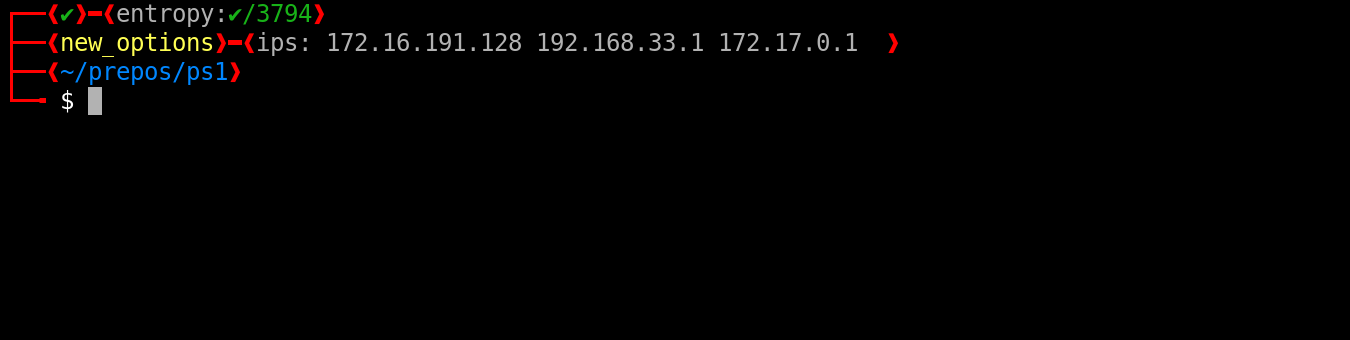
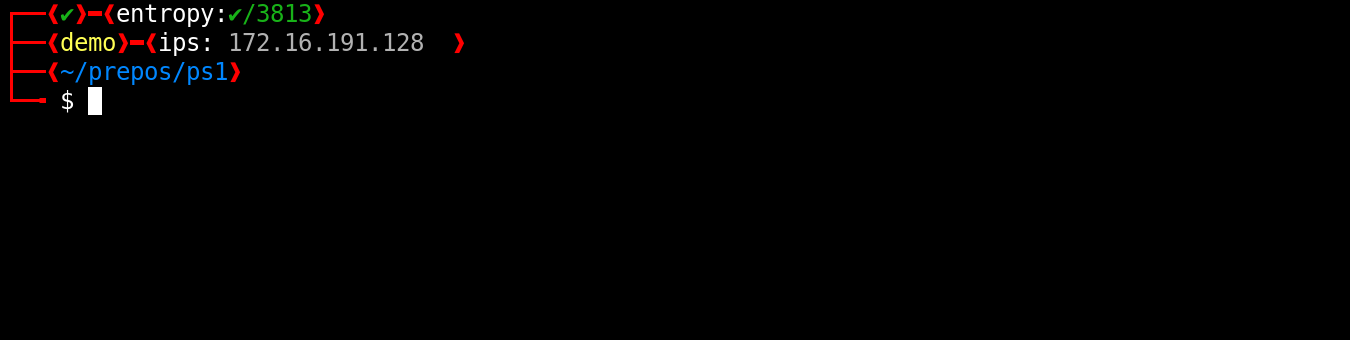
Added new setting --set_title_color
Updated  demo src/ps1api/examples/dark/stev0_work.sh

Changed region(s): [[0.0311, 0.0, 0.6844, 0.1765], [0.1867, 0.0, 0.2489, 0.0588], [0.0622, 0.2647, 0.0933, 0.3529]]

diff --git a/docs/nameIndex.html b/docs/nameIndex.html
@@ -144,7 +144,7 @@
         <h2>S</h2>
         <p class="letterlinks"><a href="#A">A</a> - <a href="#B">B</a> - <a href="#C">C</a> - <a href="#D">D</a> - <a href="#F">F</a> - <a href="#G">G</a> - <a href="#H">H</a> - <a href="#I">I</a> - <a href="#J">J</a> - <a href="#N">N</a> - <a href="#O">O</a> - <a href="#P">P</a> - S - <a href="#T">T</a> - <a href="#U">U</a> - <a href="#W">W</a> - <a href="#_">_</a></p>
         <ul id="summaryTree">
-          <li>section_color - <code data-type="Instance Variable"><a href="ps1api.Base.html#section_color">ps1api.Base.section_color</a></code></li><li>section_prefix - <code data-type="Instance Variable"><a href="ps1api.Base.html#section_prefix">ps1api.Base.section_prefix</a></code></li><li>section_suffix - <code data-type="Instance Variable"><a href="ps1api.Base.html#section_suffix">ps1api.Base.section_suffix</a></code></li><li>sections - <code data-type="Instance Variable"><a href="ps1api.Base.html#sections">ps1api.Base.sections</a></code></li><li>set_ends - <code data-type="Method"><a href="ps1api.Base.html#set_ends">ps1api.Base.set_ends</a></code></li><li>set_fancy_lines - <code data-type="Method"><a href="ps1api.Base.html#set_fancy_lines">ps1api.Base.set_fancy_lines</a></code></li><li>set_no_color - <code data-type="Method"><a href="ps1api.Base.html#set_no_color">ps1api.Base.set_no_color</a></code></li><li>set_prompt_color - <code data-type="Method"><a href="ps1api.Base.html#set_prompt_color">ps1api.Base.set_prompt_color</a></code></li><li>set_section_color - <code data-type="Method"><a href="ps1api.Base.html#set_section_color">ps1api.Base.set_section_color</a></code></li><li>set_section_delim - <code data-type="Method"><a href="ps1api.Base.html#set_section_delim">ps1api.Base.set_section_delim</a></code></li><li>SHELL_NAME - <code data-type="Class Variable"><a href="ps1api.Base.html#SHELL_NAME">ps1api.Base.SHELL_NAME</a></code></li>
+          <li>section_color - <code data-type="Instance Variable"><a href="ps1api.Base.html#section_color">ps1api.Base.section_color</a></code></li><li>section_prefix - <code data-type="Instance Variable"><a href="ps1api.Base.html#section_prefix">ps1api.Base.section_prefix</a></code></li><li>section_suffix - <code data-type="Instance Variable"><a href="ps1api.Base.html#section_suffix">ps1api.Base.section_suffix</a></code></li><li>sections - <code data-type="Instance Variable"><a href="ps1api.Base.html#sections">ps1api.Base.sections</a></code></li><li>set_ends - <code data-type="Method"><a href="ps1api.Base.html#set_ends">ps1api.Base.set_ends</a></code></li><li>set_fancy_lines - <code data-type="Method"><a href="ps1api.Base.html#set_fancy_lines">ps1api.Base.set_fancy_lines</a></code></li><li>set_no_color - <code data-type="Method"><a href="ps1api.Base.html#set_no_color">ps1api.Base.set_no_color</a></code></li><li>set_prompt_color - <code data-type="Method"><a href="ps1api.Base.html#set_prompt_color">ps1api.Base.set_prompt_color</a></code></li><li>set_section_color - <code data-type="Method"><a href="ps1api.Base.html#set_section_color">ps1api.Base.set_section_color</a></code></li><li>set_section_delim - <code data-type="Method"><a href="ps1api.Base.html#set_section_delim">ps1api.Base.set_section_delim</a></code></li><li>set_title_color - <code data-type="Method"><a href="ps1api.Base.html#set_title_color">ps1api.Base.set_title_color</a></code></li><li>SHELL_NAME - <code data-type="Class Variable"><a href="ps1api.Base.html#SHELL_NAME">ps1api.Base.SHELL_NAME</a></code></li>
         </ul>
       
         <a name="T">
@@ -153,7 +153,7 @@
         <h2>T</h2>
         <p class="letterlinks"><a href="#A">A</a> - <a href="#B">B</a> - <a href="#C">C</a> - <a href="#D">D</a> - <a href="#F">F</a> - <a href="#G">G</a> - <a href="#H">H</a> - <a href="#I">I</a> - <a href="#J">J</a> - <a href="#N">N</a> - <a href="#O">O</a> - <a href="#P">P</a> - <a href="#S">S</a> - T - <a href="#U">U</a> - <a href="#W">W</a> - <a href="#_">_</a></p>
         <ul id="summaryTree">
-          <li>TERM_BASE - <code data-type="Class Variable"><a href="ps1api.Base.html#TERM_BASE">ps1api.Base.TERM_BASE</a></code></li><li>TIME_12HR_AM_PM - <code data-type="Class Variable"><a href="ps1api.Base.html#TIME_12HR_AM_PM">ps1api.Base.TIME_12HR_AM_PM</a></code></li><li>TIME_12HR_W_SECOND - <code data-type="Class Variable"><a href="ps1api.Base.html#TIME_12HR_W_SECOND">ps1api.Base.TIME_12HR_W_SECOND</a></code></li><li>TIME_24 - <code data-type="Class Variable"><a href="ps1api.Base.html#TIME_24">ps1api.Base.TIME_24</a></code></li>
+          <li>TERM_BASE - <code data-type="Class Variable"><a href="ps1api.Base.html#TERM_BASE">ps1api.Base.TERM_BASE</a></code></li><li>TIME_12HR_AM_PM - <code data-type="Class Variable"><a href="ps1api.Base.html#TIME_12HR_AM_PM">ps1api.Base.TIME_12HR_AM_PM</a></code></li><li>TIME_12HR_W_SECOND - <code data-type="Class Variable"><a href="ps1api.Base.html#TIME_12HR_W_SECOND">ps1api.Base.TIME_12HR_W_SECOND</a></code></li><li>TIME_24 - <code data-type="Class Variable"><a href="ps1api.Base.html#TIME_24">ps1api.Base.TIME_24</a></code></li><li>title_color - <code data-type="Instance Variable"><a href="ps1api.Base.html#title_color">ps1api.Base.title_color</a></code></li>
         </ul>
       
         <a name="U">

diff --git a/docs/ps1api.Base.html b/docs/ps1api.Base.html
@@ -138,6 +138,11 @@
   </tr><tr class="instancevariable">
     
     <td>Instance Variable</td>
+    <td><code><a href="#title_color">title_color</a></code></td>
+    <td><span>Title color.</span></td>
+  </tr><tr class="instancevariable">
+    
+    <td>Instance Variable</td>
     <td><code><a href="#fancy_lines">fancy_lines</a></code></td>
     <td><span>Turn on Fancy lines.</span></td>
   </tr><tr class="instancevariable">
@@ -145,6 +150,11 @@
     <td>Instance Variable</td>
     <td><code><a href="#sections">sections</a></code></td>
     <td><span>Sections list.</span></td>
+  </tr><tr class="method">
+    
+    <td>Method</td>
+    <td><code><a href="#set_title_color">set_title_color</a></code></td>
+    <td><span>Set title color.</span></td>
   </tr><tr class="method">
     
     <td>Method</td>
@@ -675,6 +685,24 @@
   </div>
 </div><div class="baseinstancevariable">
   
+  <a name="ps1api.Base.title_color">
+    
+  </a>
+  <a name="title_color">
+    
+  </a>
+  <div class="functionHeader">
+    
+    <span class="py-defname">title_color</span> =
+    
+  </div>
+  <div class="functionBody">
+    
+    
+    <div><p>Title color.</p></div>
+  </div>
+</div><div class="baseinstancevariable">
+  
   <a name="ps1api.Base.fancy_lines">
     
   </a>
@@ -726,6 +754,24 @@
     
     
     <div><p>Strip color from output.</p></div>
+  </div>
+</div><div class="basemethod">
+  
+  <a name="ps1api.Base.set_title_color">
+    
+  </a>
+  <a name="set_title_color">
+    
+  </a>
+  <div class="functionHeader">
+    
+    <span class="py-keyword">def</span> <span class="py-defname">set_title_color</span>(self, value):
+    
+  </div>
+  <div class="docstring functionBody">
+    
+    
+    <div><p>Set title color.</p><table class="fieldTable"><tr class="fieldStart"><td class="fieldName">Parameters</td><td class="fieldArg">value</td><td><span class="undocumented">Undocumented</span> (type: <code>str</code>)</td></tr></table></div>
   </div>
 </div><div class="basemethod">
   

diff --git a/docs/ps1api.Parrot.html b/docs/ps1api.Parrot.html
@@ -151,6 +151,11 @@
   </tr><tr class="baseinstancevariable">
     
     <td>Instance Variable</td>
+    <td><code><a href="ps1api.Base.html#title_color">title_color</a></code></td>
+    <td><span>Title color.</span></td>
+  </tr><tr class="baseinstancevariable">
+    
+    <td>Instance Variable</td>
     <td><code><a href="ps1api.Base.html#fancy_lines">fancy_lines</a></code></td>
     <td><span>Turn on Fancy lines.</span></td>
   </tr><tr class="baseinstancevariable">
@@ -158,6 +163,11 @@
     <td>Instance Variable</td>
     <td><code><a href="ps1api.Base.html#sections">sections</a></code></td>
     <td><span>Sections list.</span></td>
+  </tr><tr class="basemethod">
+    
+    <td>Method</td>
+    <td><code><a href="ps1api.Base.html#set_title_color">set_title_color</a></code></td>
+    <td><span>Set title color.</span></td>
   </tr><tr class="basemethod">
     
     <td>Method</td>

diff --git a/docs/ps1api.ParrotGit.html b/docs/ps1api.ParrotGit.html
@@ -151,6 +151,11 @@
   </tr><tr class="baseinstancevariable">
     
     <td>Instance Variable</td>
+    <td><code><a href="ps1api.Base.html#title_color">title_color</a></code></td>
+    <td><span>Title color.</span></td>
+  </tr><tr class="baseinstancevariable">
+    
+    <td>Instance Variable</td>
     <td><code><a href="ps1api.Base.html#fancy_lines">fancy_lines</a></code></td>
     <td><span>Turn on Fancy lines.</span></td>
   </tr><tr class="baseinstancevariable">
@@ -158,6 +163,11 @@
     <td>Instance Variable</td>
     <td><code><a href="ps1api.Base.html#sections">sections</a></code></td>
     <td><span>Sections list.</span></td>
+  </tr><tr class="basemethod">
+    
+    <td>Method</td>
+    <td><code><a href="ps1api.Base.html#set_title_color">set_title_color</a></code></td>
+    <td><span>Set title color.</span></td>
   </tr><tr class="basemethod">
     
     <td>Method</td>

diff --git a/src/ps1api/__init__.py b/src/ps1api/__init__.py
@@ -82,9 +82,15 @@ class Base(object):
         self.set_ends()
         self.set_prompt_color()
         self.set_section_delim()
+
+        self.title_color = None
+        """Title color."""
+
         self.fancy_lines = False
         """Turn on Fancy lines."""
+
         self.set_no_color(False)
+
         self.sections = []
         """Sections list."""
 
@@ -94,6 +100,10 @@ class Base(object):
         """Strip color from output."""
         ansi_escape = re.compile(r"\x1B(?:[@-Z\\-_]|\[[0-?]*[ -/]*[@-~])")
         return ansi_escape.sub("", value)
+
+    def set_title_color(self, value: str):
+        """Set title color."""
+        self.title_color = value
 
     def set_no_color(self, value=True):
         """Set terminal to no color."""
@@ -477,12 +487,16 @@ class Base(object):
                 mod_lines.append(val)
             elif not color:
                 if title:
+                    if self.title_color:
+                        title = self.color(self.title_color, title)
                     ival = f"{title}:{val}"
                 else:
                     ival = val
                 mod_lines.append(self._sammy(ival))
             else:
                 if title:
+                    if self.title_color:
+                        title = self.color(self.title_color, title)
                     ival = f"{title}:{self.color(color, val)}"
                 else:
                     ival = self.color(color, val)

diff --git a/README.md b/README.md
@@ -52,7 +52,7 @@ usage: ps1 custom [-h] [--add_bash_ver color title] [--add_bash_ver_release colo
                         [--add_user color title] [--add_user_host user_color at_sym_color host_color]
                         [--add_working_dir_basename color title] [--add_working_directory color title] [--set_ends start end]
                         [--set_fancy_lines] [--set_no_color value] [--set_prompt_color color] [--set_section_color color]
-                        [--set_section_delim delim]
+                        [--set_section_delim delim] [--set_title_color value]
 
 optional arguments:
   -h, --help            show this help message and exit
@@ -142,6 +142,8 @@ optional arguments:
                         ::
                             i.e. [section1]-[section2]
                                            ^ separator
+  --set_title_color value
+                        Set title color.
 
 ```
 
@@ -247,7 +249,7 @@ export PS1='\[\e[38;5;15m\]\[\e[1m\]\000\342\224\214\000\342\224\200\000\342\224
 
 ### [stev0_work.sh](https://github.com/shollingsworth/ps1/blob/main/src/ps1api/examples/dark/stev0_work.sh)
 ```
-export PS1='\[\e[38;5;196m\]\[\e[1m\]\133\[\e[0m\]$(b_err_code=$?; [[ $b_err_code != 0 ]] && echo "\[\e[38;5;196m\]\000\342\234\230\[\e[0m\]/${b_err_code}" || echo "\[\e[38;5;2m\]\000\342\234\224\[\e[0m\]")\[\e[38;5;196m\]\[\e[1m\]\135\[\e[0m\]\[\e[38;5;196m\]\[\e[1m\]\[\e[0m\]\[\e[38;5;196m\]\[\e[1m\]\133\[\e[0m\]entropy:$(_shentropy)\[\e[38;5;196m\]\[\e[1m\]\135\[\e[0m\]\[\e[38;5;196m\]\[\e[1m\]\[\e[0m\]\[\e[38;5;196m\]\[\e[1m\]\133\[\e[0m\]\[\e[38;5;2m\]\d \t\[\e[0m\]\[\e[38;5;196m\]\[\e[1m\]\135\[\e[0m\]\[\e[38;5;196m\]\[\e[1m\]\[\e[0m\]\[\e[38;5;196m\]\[\e[1m\]\133\[\e[0m\]jobs:\[\e[38;5;196m\]\j\[\e[0m\]\[\e[38;5;196m\]\[\e[1m\]\135\[\e[0m\]\[\e[38;5;196m\]\[\e[1m\]\[\e[0m\]\[\e[38;5;196m\]\[\e[1m\]\133\[\e[0m\]cmd#:\[\e[38;5;196m\]\#\[\e[0m\]\[\e[38;5;196m\]\[\e[1m\]\135\[\e[0m\]\n\[\e[38;5;196m\]\[\e[1m\]\133\[\e[0m\]\[\e[38;5;33m\]\w\[\e[0m\]\[\e[38;5;196m\]\[\e[1m\]\135\[\e[0m\]\[\e[38;5;196m\]\[\e[1m\]\[\e[0m\]\[\e[38;5;196m\]\[\e[1m\]\133\[\e[0m\]\[\e[38;5;11m\]$(br=$(git branch 2>/dev/null| grep '"'"'^\*'"'"' | awk '"'"'{print $NF}'"'"'); [[ "${br}" ]] && echo "${br}" || echo "-")\[\e[0m\]\[\e[38;5;196m\]\[\e[1m\]\135\[\e[0m\]\n\[\e[38;5;15m\]\$ \[\e[0m\]'
+export PS1='\[\e[38;5;196m\]\[\e[1m\]\133\[\e[0m\]$(b_err_code=$?; [[ $b_err_code != 0 ]] && echo "\[\e[38;5;196m\]\000\342\234\230\[\e[0m\]/${b_err_code}" || echo "\[\e[38;5;2m\]\000\342\234\224\[\e[0m\]")\[\e[38;5;196m\]\[\e[1m\]\135\[\e[0m\]\[\e[38;5;196m\]\[\e[1m\]\[\e[0m\]\[\e[38;5;196m\]\[\e[1m\]\133\[\e[0m\]\[\e[38;5;244m\]entropy\[\e[0m\]:$(_shentropy)\[\e[38;5;196m\]\[\e[1m\]\135\[\e[0m\]\[\e[38;5;196m\]\[\e[1m\]\[\e[0m\]\[\e[38;5;196m\]\[\e[1m\]\133\[\e[0m\]\[\e[38;5;2m\]\d \t\[\e[0m\]\[\e[38;5;196m\]\[\e[1m\]\135\[\e[0m\]\[\e[38;5;196m\]\[\e[1m\]\[\e[0m\]\[\e[38;5;196m\]\[\e[1m\]\133\[\e[0m\]\[\e[38;5;244m\]jobs\[\e[0m\]:\[\e[38;5;196m\]\j\[\e[0m\]\[\e[38;5;196m\]\[\e[1m\]\135\[\e[0m\]\[\e[38;5;196m\]\[\e[1m\]\[\e[0m\]\[\e[38;5;196m\]\[\e[1m\]\133\[\e[0m\]\[\e[38;5;244m\]cmd#\[\e[0m\]:\[\e[38;5;196m\]\#\[\e[0m\]\[\e[38;5;196m\]\[\e[1m\]\135\[\e[0m\]\n\[\e[38;5;196m\]\[\e[1m\]\133\[\e[0m\]\[\e[38;5;33m\]\w\[\e[0m\]\[\e[38;5;196m\]\[\e[1m\]\135\[\e[0m\]\[\e[38;5;196m\]\[\e[1m\]\[\e[0m\]\[\e[38;5;196m\]\[\e[1m\]\133\[\e[0m\]\[\e[38;5;11m\]$(br=$(git branch 2>/dev/null| grep '"'"'^\*'"'"' | awk '"'"'{print $NF}'"'"'); [[ "${br}" ]] && echo "${br}" || echo "-")\[\e[0m\]\[\e[38;5;196m\]\[\e[1m\]\135\[\e[0m\]\n\[\e[38;5;15m\]\$ \[\e[0m\]'
 ```
 ![stev0_work.sh](https://raw.githubusercontent.com/shollingsworth/ps1/main/media/dark/stev0_work.sh.png)
 

diff --git a/CHANGELOG.md b/CHANGELOG.md
@@ -1,6 +1,14 @@
+# v0.0.11
+#### Added new setting --set_title_color
+> 2021-09-14 03:53 UTC [HEAD](https://github.com/shollingsworth/ps1/commit/HEAD)
+
+```
+Updated  demo src/ps1api/examples/dark/stev0_work.sh
+```
+---
 # v0.0.10
 #### Stripped left hand side on newlines
-> 2021-09-14 03:30 UTC [HEAD](https://github.com/shollingsworth/ps1/commit/HEAD)
+> 2021-09-14 03:30 UTC [2931d5b](https://github.com/shollingsworth/ps1/commit/2931d5b1e7d43ebffa093f52e7727887a10b5173)
 
 #### Updated documentation
 > 2021-09-13 22:45 UTC [9649b97](https://github.com/shollingsworth/ps1/commit/9649b970075068e1c3c51f0c281b6b7f26ba1c59)
